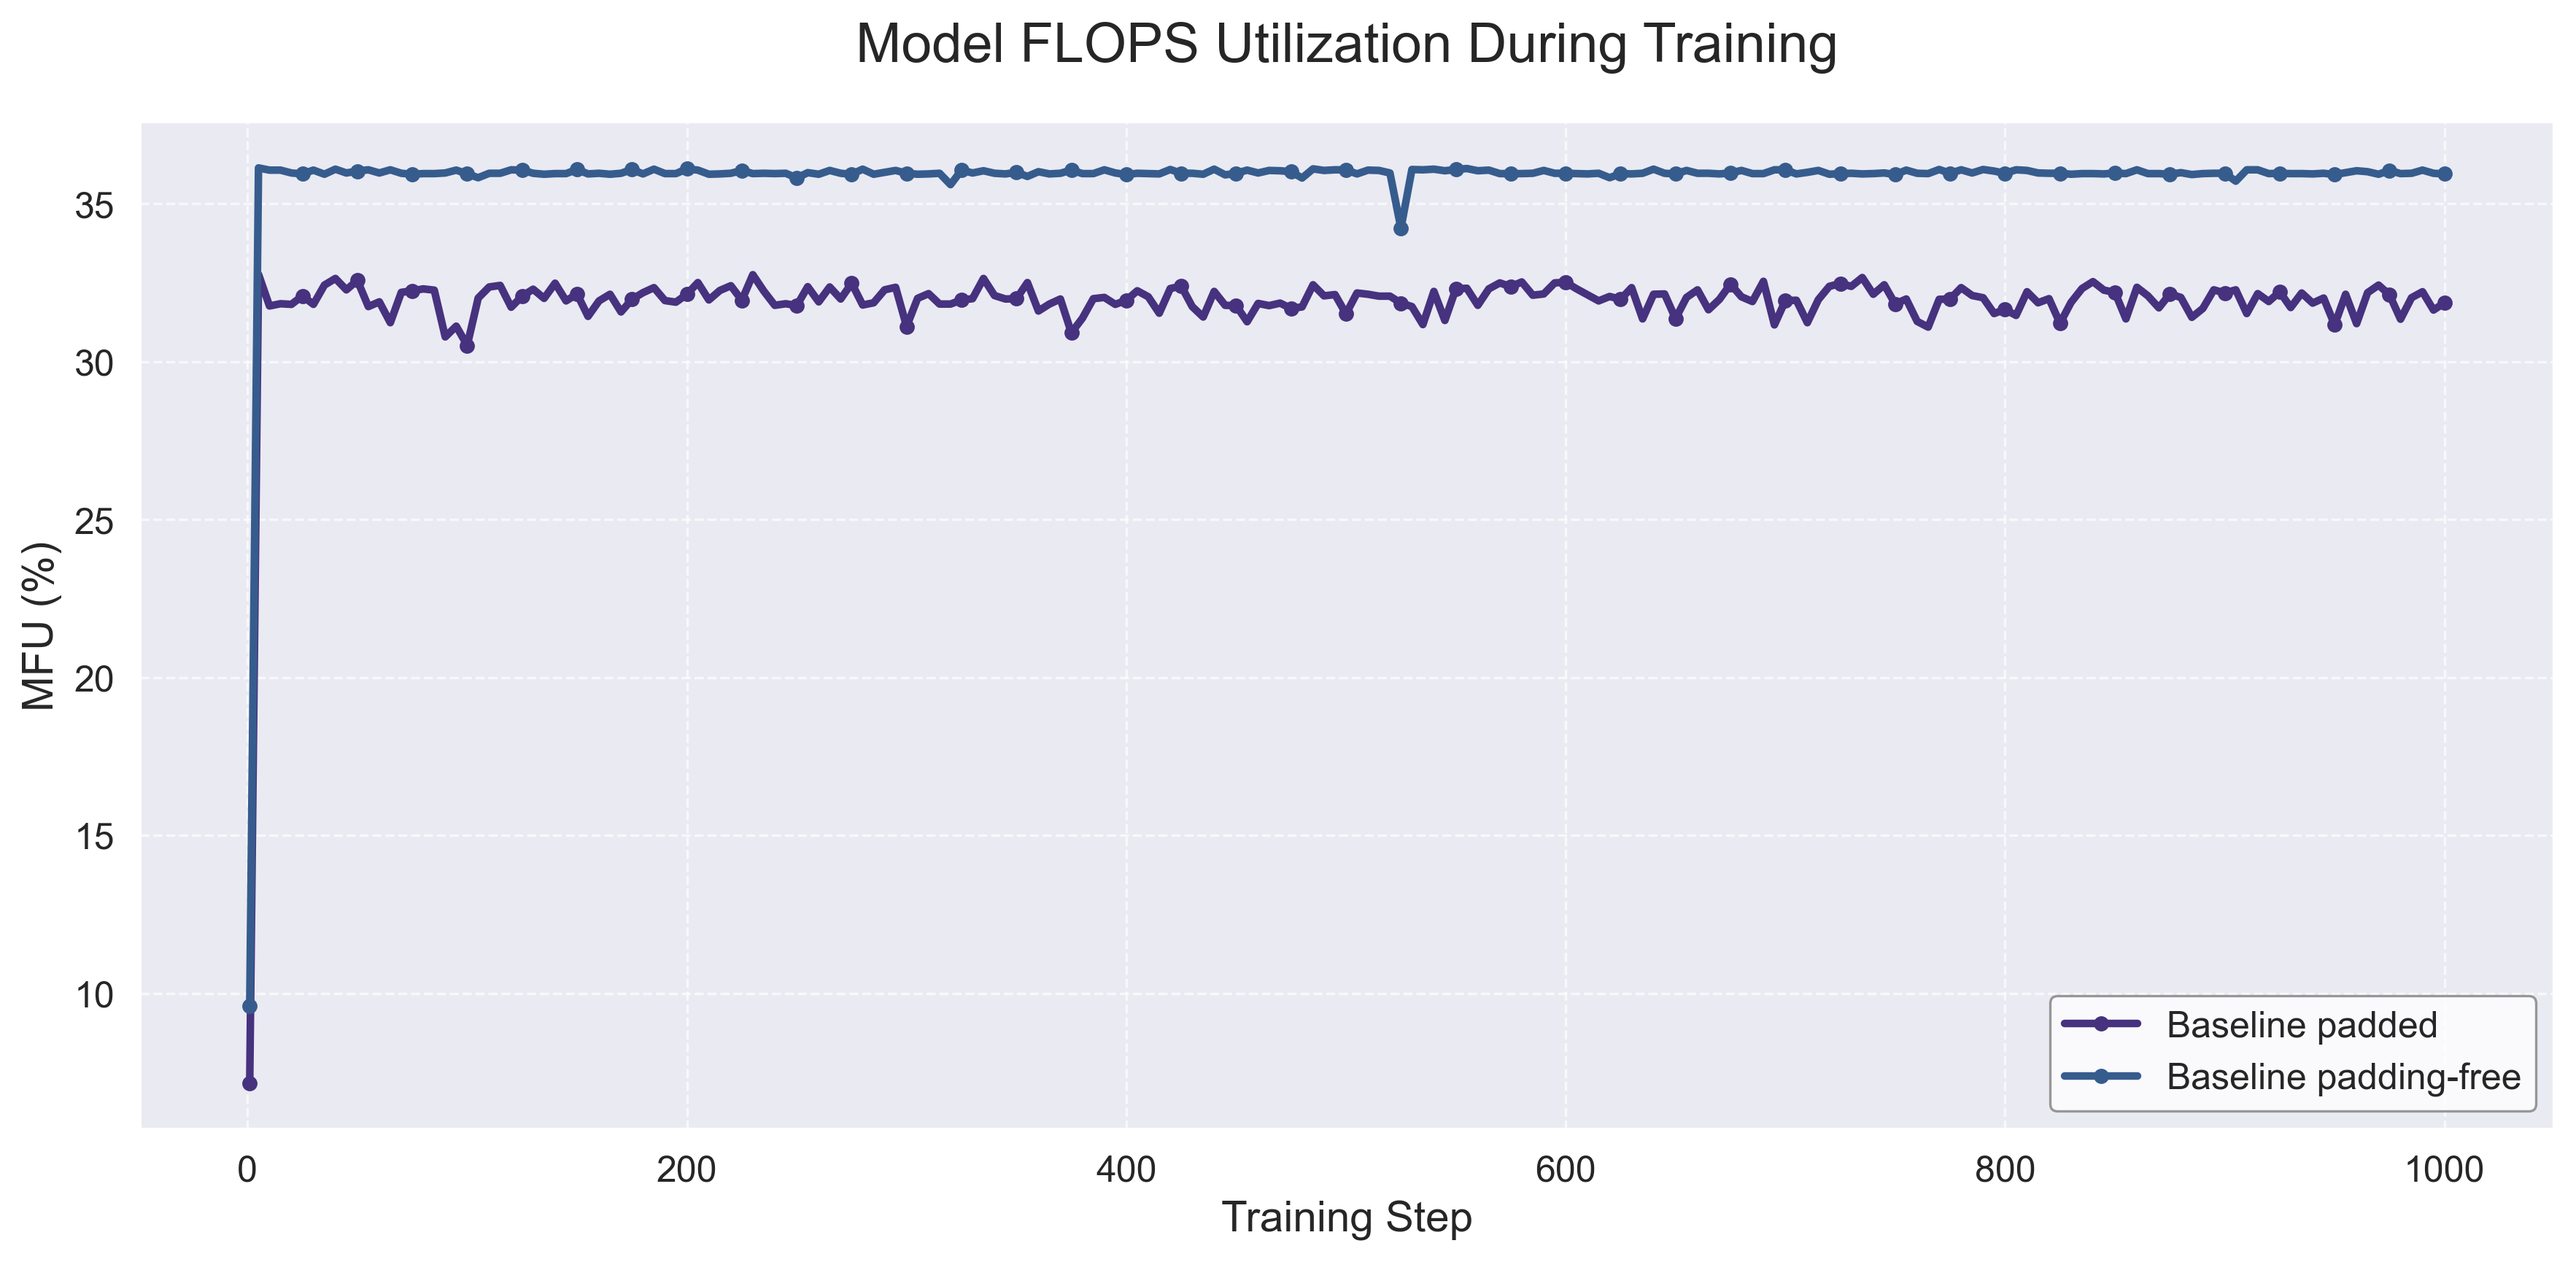
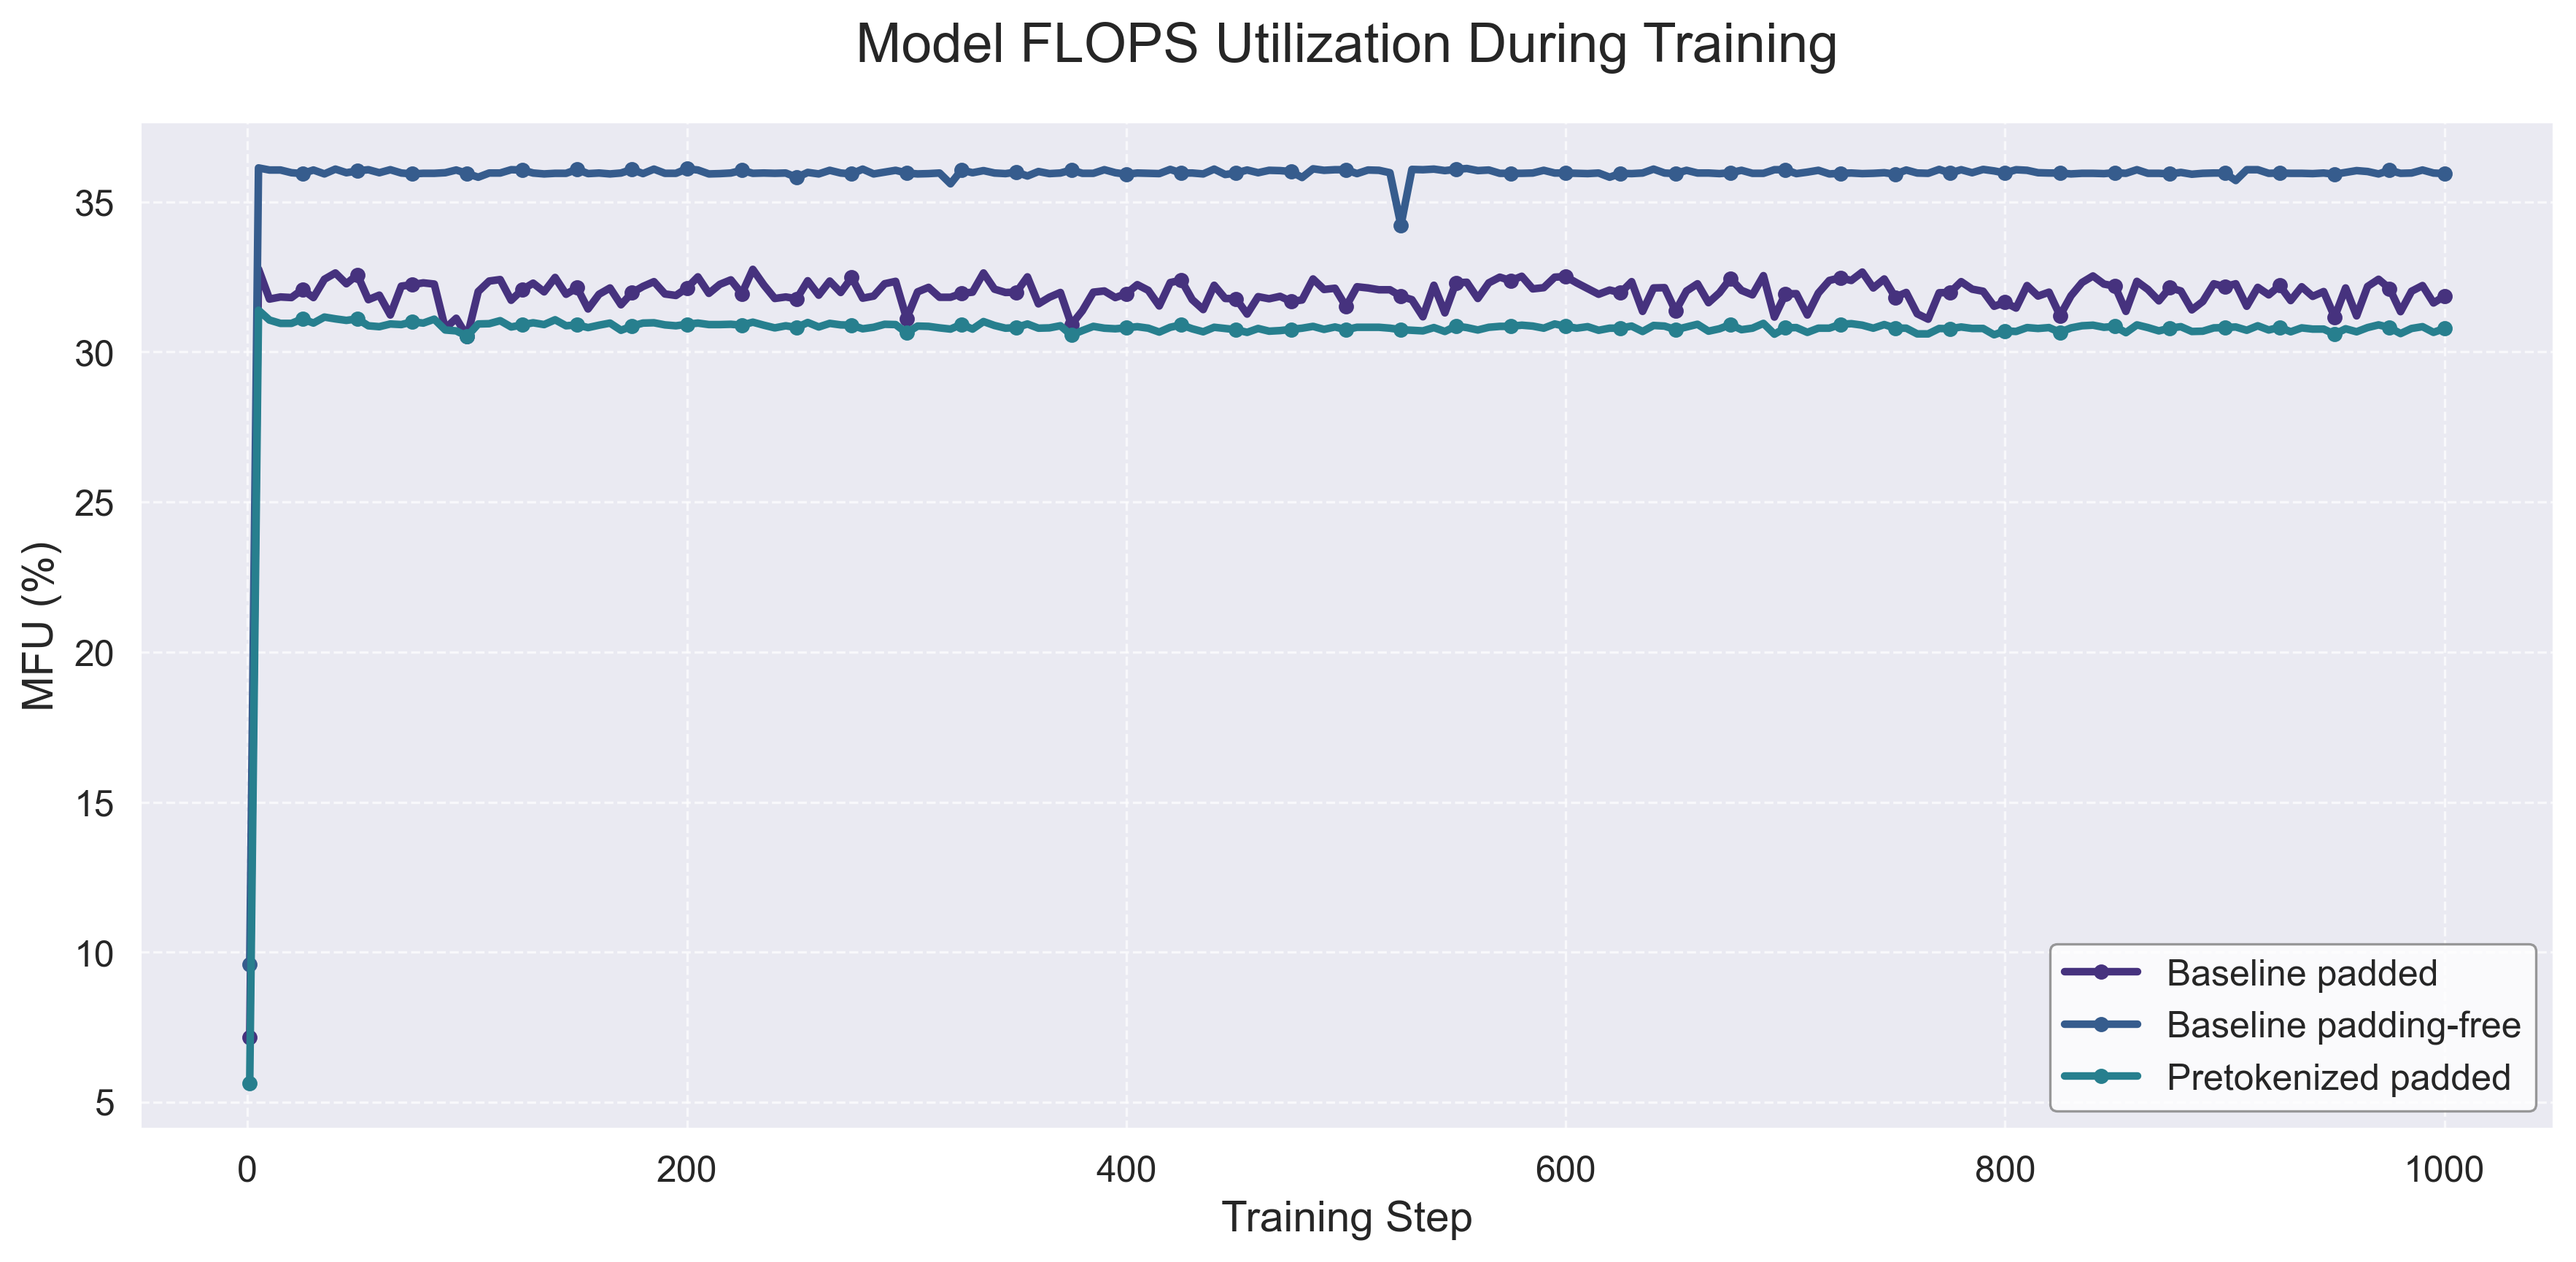
Plot results of pretoknized padded run

diff --git a/analysis/plotting.py b/analysis/plotting.py
@@ -281,3 +281,13 @@ def plot_results(log_files, output_dir="plots"):
     
     # 6. Special comparison chart
     plot_efficiency_comparison(results, output_dir)
+    
+    # 6. Line chart of loss over time
+    plot_time_series(
+        results,
+        'loss',
+        'Validation Loss During Training',
+        'Loss',
+        'loss_over_time.png',
+        output_dir
+    )

diff --git a/main.py b/main.py
@@ -23,6 +23,7 @@ from analysis.plotting import plot_results
 log_files = {
     'Baseline padded': 'logs/lsai_baseline_padded-396307.out',
     'Baseline padding-free': 'logs/lsai_baseline_padding_free-396382.out',
+    'Pretokenized padded': 'logs/lsai_pretokenized_padded-397348.out',
 }
 output_dir = "plots"
 os.makedirs(output_dir, exist_ok=True)
